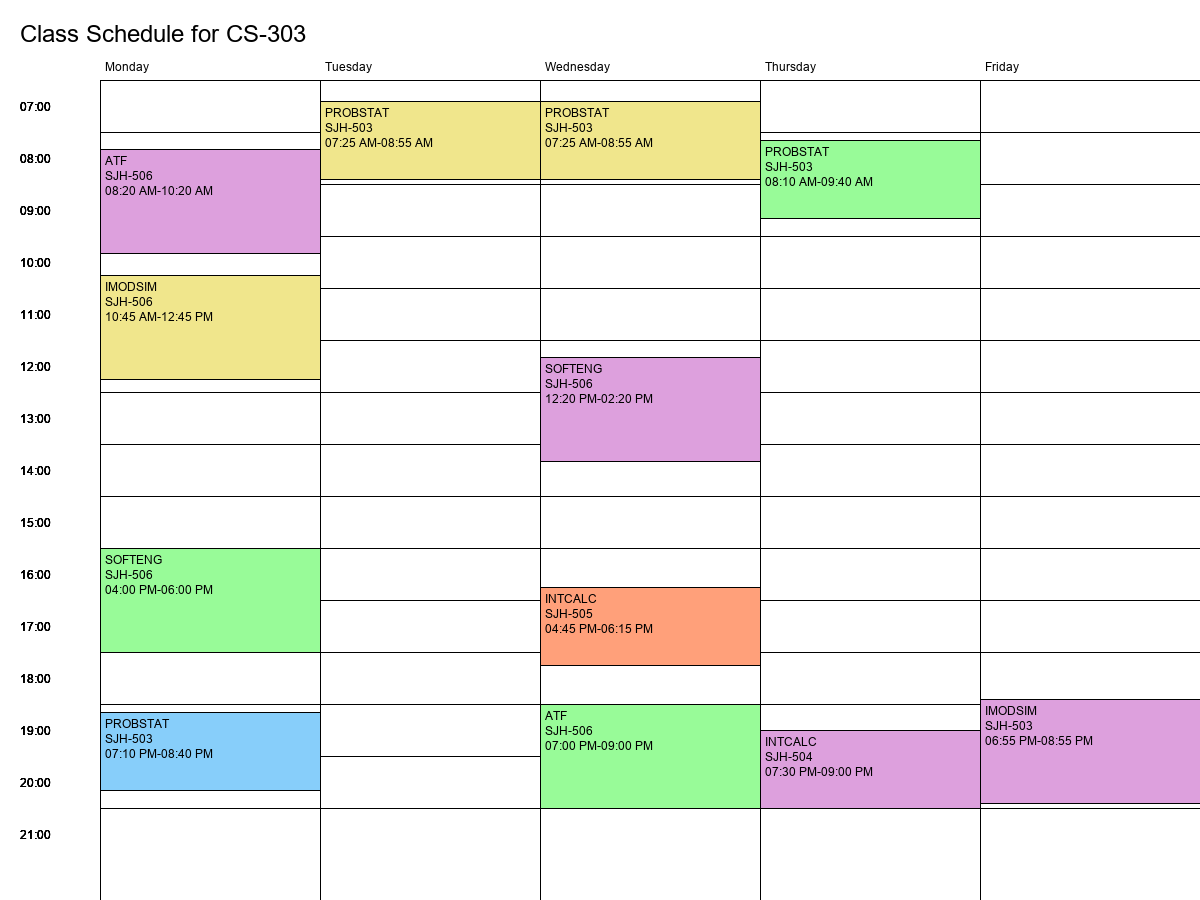
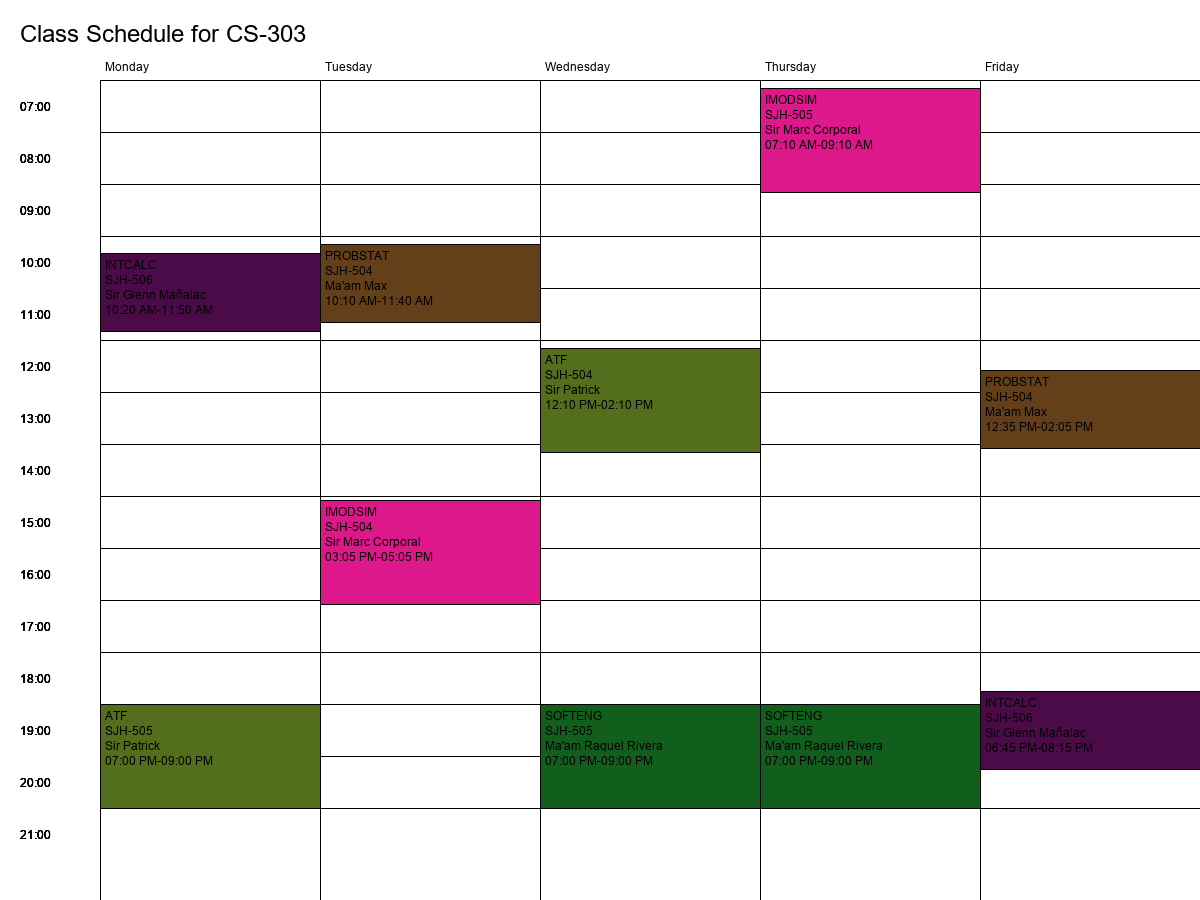
feat: assign a unique color per subject

diff --git a/main_rewrite.py b/main_rewrite.py
@@ -25,13 +25,6 @@ def generate_visual_schedule(schedule, block, filename="class_schedule.png"):
         font = ImageFont.load_default()
         title_font = ImageFont.load_default()
 
-    # Define colors
-    colors = ["#FFA07A", "#98FB98", "#87CEFA", "#DDA0DD", "#F0E68C"]
-
-    # Draw title
-    title = f"Class Schedule for {block.get_block_dept().get_prefix()}-{block.get_block_num()}"
-    draw.text((20, 20), title, font=title_font, fill="black")
-
     # Define grid
     days = ["Monday", "Tuesday", "Wednesday", "Thursday", "Friday"]
     times = [f"{h:02d}:00" for h in range(7, 22)]  # 7 AM to 9 PM
@@ -39,6 +32,21 @@ def generate_visual_schedule(schedule, block, filename="class_schedule.png"):
     cell_height = (height - 100) // (
         len(times) * 2
     )  # Divide each hour into two 30-minute slots
+
+    # Generate a unique color for each subject
+    subjects = set()
+    for day in schedule:
+        for _, _, subject, _ in schedule[day]:
+            subjects.add(subject)
+
+    # Assign a unique color to each subject
+    subject_colors = {
+        subject: f"#{random.randint(0, 0xFFFFFF):06x}" for subject in subjects
+    }
+
+    # Draw title
+    title = f"Class Schedule for {block.get_block_dept().get_prefix()}-{block.get_block_num()}"
+    draw.text((20, 20), title, font=title_font, fill="black")
 
     # Draw grid
     for i, day in enumerate(days):
@@ -67,7 +75,7 @@ def generate_visual_schedule(schedule, block, filename="class_schedule.png"):
             start_y = 80 + (start_minutes * cell_height) // 30
             end_y = 80 + (end_minutes * cell_height) // 30
 
-            color = random.choice(colors)
+            color = subject_colors[subject]
             draw.rectangle(
                 [
                     100 + day_index * cell_width,
@@ -79,7 +87,12 @@ def generate_visual_schedule(schedule, block, filename="class_schedule.png"):
                 outline="black",
             )
 
-            text = f"{subject.get_subject_name()}\n{room.get_room()}\n{start_time.strftime('%I:%M %p')}-{end_time.strftime('%I:%M %p')}"
+            text = (
+                f"{subject.get_subject_name()}\n"
+                f"{room.get_room()}\n"
+                f"{subject._instructor.get_name()}\n"  # Include instructor's name
+                f"{start_time.strftime('%I:%M %p')}-{end_time.strftime('%I:%M %p')}"
+            )
             draw.text(
                 (105 + day_index * cell_width, start_y + 5),
                 text,
@@ -801,7 +814,7 @@ if __name__ == "__main__":
     SOFTENG = Subject("SOFTENG", [maam_raquel, kyle], SubjectType.SPECIALIZED_LECTURE)
     ADET = Subject("ADET", [kyle, sir_uly], SubjectType.SPECIALIZED_LAB)
 
-    subjects = [IMODSIM, PROBSTAT, INTCALC, ATF, SOFTENG, PROBSTAT]
+    subjects = [IMODSIM, PROBSTAT, INTCALC, ATF, SOFTENG]
 
     ROOMS = [
         ["SJH-503", RoomType.LECTURE],

diff --git a/ui.py b/ui.py
@@ -38,6 +38,9 @@ def main(page: ft.Page):
     migration_rate_text.value = "Migration Rate: 0.1"
     elitism_rate_text.value = "Elitism Rate: 0.1"
 
+    loading_indicator = ft.ProgressRing(visible=False)
+    images_container = ft.Column()  # To show generated schedule images
+
     def slider_changed_migration(e):
         migration_rate_text.value = f"Migration Rate: {e.control.value}"
         page.update()
@@ -411,6 +414,10 @@ def main(page: ft.Page):
         page.update()
 
     def generate_schedule(e):
+        # Make the loading screen visible on press
+        loading_indicator.visible = True
+        page.update()
+
         try:
             # Ensure the fields are not None and convert to int
             population_size = (
@@ -737,9 +744,6 @@ def main(page: ft.Page):
     )
     create_block_view.scroll = ft.ScrollMode.ALWAYS
 
-    loading_indicator = ft.ProgressRing(visible=False)  # Hidden by default
-    images_container = ft.Column()  # To show generated schedule images
-
     # Views for config screen
     create_config_view = ft.View(
         "/create_config",
@@ -789,9 +793,17 @@ def main(page: ft.Page):
                         ),
                         ft.Container(height=8),
                         # Loading Indicator
-                        loading_indicator,
+                        ft.Row(
+                            alignment=ft.MainAxisAlignment.CENTER,
+                            vertical_alignment=ft.CrossAxisAlignment.CENTER,
+                            controls=[loading_indicator],
+                        ),
                         # Image display container
-                        images_container,
+                        ft.Row(
+                            alignment=ft.MainAxisAlignment.CENTER,
+                            vertical_alignment=ft.CrossAxisAlignment.CENTER,
+                            controls=[images_container],
+                        ),
                         ft.Container(height=8),
                         ft.Row(
                             controls=[
